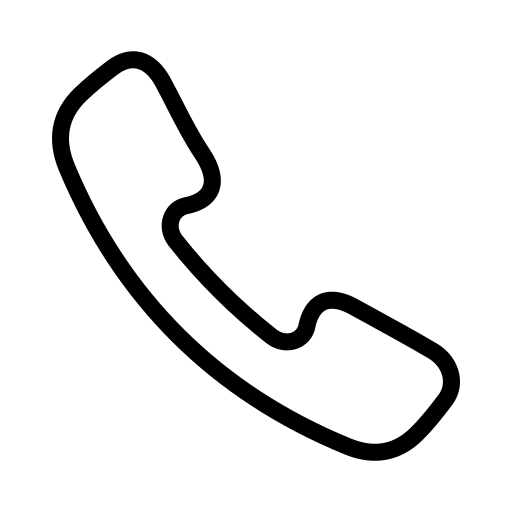
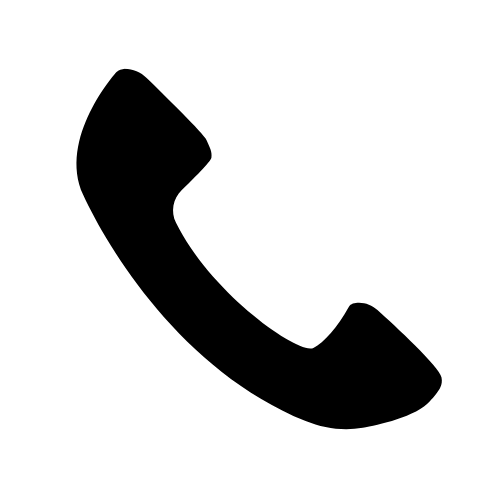
ajeitando estilo

Changed region(s): [[0.09, 0.09, 0.9, 0.9]]

diff --git a/menu-email.html b/menu-email.html
@@ -7,15 +7,19 @@
     
     <link rel="stylesheet" href="styles/style.css">
     <link rel="stylesheet" href="styles/style-email.css">
+    <style>
+        body {
+            background-color: #ea3535;
+        }
+    </style>
 </head>
 <body>
     
     <div class="app-container">
 
-        <header class="app-header" style="background-color: #EA4335;">
+        <header class="app-header" style="background-color: #ea3535;">
             <a href="index.html" class="header-back-button">
                 <img src="images/seta.png" alt="Seta para voltar a tela anterior" class="seta-volta" style="width: 30px;">
-                Voltar
             </a>
             <h1>E-mail</h1>
             <p>O que você quer aprender?</p>
@@ -25,12 +29,12 @@
             
             <a href="tutorial-email-enviar.html" class="menu-button email">
                 <span>➕</span>
-                Aprender a Enviar E-mail
+                Aprender a enviar um e-mail
             </a>
 
             <a href="tutorial-email-ler.html" class="menu-button email">
                 <span>📥</span>
-                Aprender a Ler E-mail
+                Aprender a ler um e-mail
             </a>
         </main>
     </div>

diff --git a/menu-banco.html b/menu-banco.html
@@ -7,6 +7,11 @@
     
     <link rel="stylesheet" href="styles/style.css">
     <link rel="stylesheet" href="styles/style-banco.css">
+    <style>
+        body {
+            background-color: #0073B1;
+        }
+    </style>
 </head>
 <body>
     
@@ -15,9 +20,8 @@
         <header class="app-header" style="background-color: #0073B1;">
             <a href="index.html" class="header-back-button">
                 <img src="images/seta.png" alt="Seta para voltar a tela anterior" class="seta-volta" style="width: 30px;">
-                Voltar
             </a>
-            <h1>Meu Banco</h1>
+            <h1>Meu banco</h1>
             <p>O que você quer aprender?</p>
         </header>
         
@@ -25,12 +29,12 @@
             
             <a href="tutorial-banco-pagamento.html" class="menu-button banco">
                 <span>📄</span>
-                Aprender a Pagar Boleto
+                Aprenda a pagar um boleto
             </a>
 
             <a href="tutorial-banco-pix.html" class="menu-button banco">
                 <span>↔</span>
-                Aprender a Fazer Pix
+                Aprender a fazer um Pix
             </a>
         </main>
     </div>

diff --git a/menu-whatsapp.html b/menu-whatsapp.html
@@ -7,15 +7,19 @@
     
     <link rel="stylesheet" href="styles/style.css">
     <link rel="stylesheet" href="styles/style-whatsapp.css">
+    <style>
+        body {
+            background-color: #0e8f3f;
+        }
+    </style>
 </head>
 <body>
     
     <div class="app-container">
 
-        <header class="app-header" style="background-color: #075E54;">
+        <header class="app-header" style="background-color: #0e8f3f;">
             <a href="index.html" class="header-back-button">
                 <img src="images/seta.png" alt="Seta para voltar a tela anterior" class="seta-volta" style="width: 30px;">
-                Voltar
             </a>
             <h1>WhatsApp</h1>
             <p>O que você quer aprender?</p>
@@ -29,7 +33,7 @@
             </a>
 
             <a href="tutorial-ligacao-whatsapp.html" class="menu-button whatsapp">
-                <span>📞</span>
+                <img src="images/telefone.png" alt="Icone de telefone">
                 Aprender a fazer uma ligação
             </a>
         </main>

diff --git a/menu-search.html b/menu-search.html
@@ -15,7 +15,6 @@
         <header class="app-header" style="background-color: #4285F4;">
             <a href="index.html" class="header-back-button">
                 <img src="images/seta.png" alt="Seta para voltar a tela anterior" class="seta-volta" style="width: 30px;">
-                Voltar
             </a>
             <h1>Pesquisas</h1>
             <p>O que você quer aprender?</p>
@@ -25,12 +24,12 @@
             
             <a href="tutorial-search-texto.html" class="menu-button search">
                 <span>⌨</span>
-                Aprender a Pesquisar por Texto
+                Aprenda a pesquisar por texto
             </a>
 
             <a href="tutorial-search-audio.html" class="menu-button search">
                 <span>🎤</span>
-                Aprender a Pesquisar por Áudio
+                Aprenda a pesquisar por áudio
             </a>
         </main>
     </div>

diff --git a/styles/style.css b/styles/style.css
@@ -161,7 +161,7 @@ body {
     left: 25px;
     color: white;
     text-decoration: none;
-    font-size: 2em;
+    font-size: 0.8em;
     font-weight: 600;
 }
 .header-back-button:hover {
